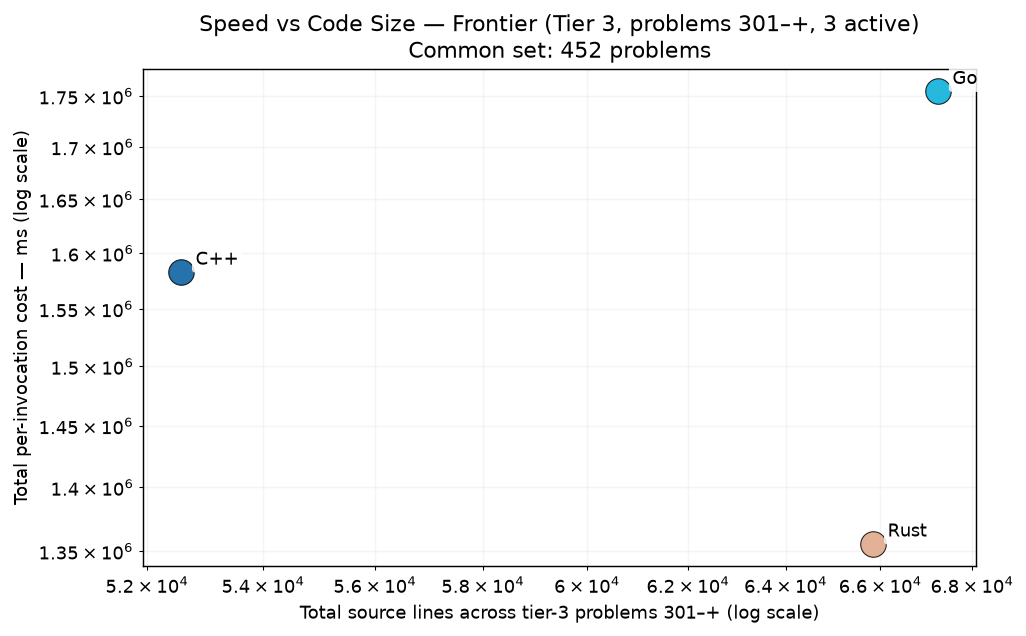
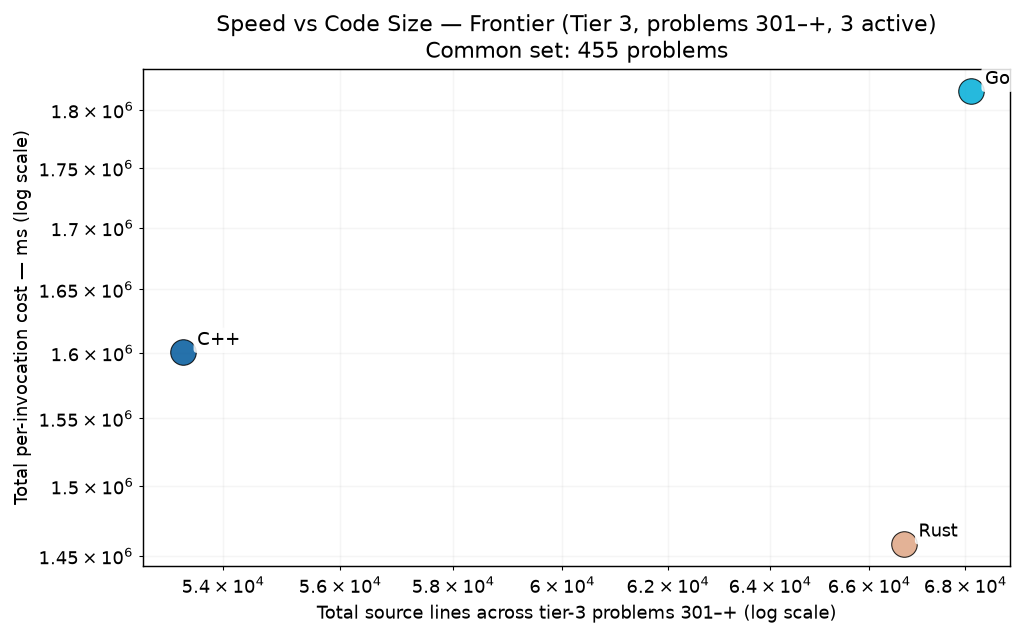
bench: p0433 un-parked + p0583, p0598 frontier trio solves

diff --git a/RESULTS.md b/RESULTS.md
@@ -1,6 +1,6 @@
 # Project Euler — Cross-Language Benchmarks
 
-> **Scope: 4521 in-scope cells across 1007 problems × tiered languages — 3770 measured (83.4% coverage).**
+> **Scope: 4521 in-scope cells across 1007 problems × tiered languages — 3779 measured (83.6% coverage).**
 > The cross-language ranking below is computed over the **200-problem common set** (problems in 1-200 where every language has a passing measurement) — the apples-to-apples Foundation comparison surface.  Per-tier rankings and coverage detail appear further below.
 > Growing carefully — each new problem and language is audited for state-leak
 > safety, verified for answer correctness, and added only when it cleanly fits the
@@ -70,15 +70,15 @@ Same scatter as the Foundation chart, restricted to the tier-2 active languages 
 
 The frontier verification trio — C++, Go, Rust — on problems above 300. 3-way cross-language agreement is the verification protocol (strictly stronger than 2-way; see JOURNEY.md "Tier Reframing" episode for the p254 lesson that motivated it). Python and Zig are explicitly out of this tier — python's wall cost makes it impractical at level 5+, and zig's role caps at Tier 2.
 
-### Per-Invocation Cost (Common Set, 452 of ≤707 problems in scope)
+### Per-Invocation Cost (Common Set, 455 of ≤707 problems in scope)
 
 ![Per-Invocation Cost — Tier 3](charts/per_iter_total_tier3.png)
 
-| Rank | Language | Geomean (452-problem common set) | Total (sum) | Lines of code | vs Fastest |
+| Rank | Language | Geomean (455-problem common set) | Total (sum) | Lines of code | vs Fastest |
 |------|----------|--------------------:|------------:|--------------:|-----------:|
-| 1 | **Rust** | 61.40 ms | 1355.66 s | 65,849 | 1.00× |
-| 2 | **C++** | 65.86 ms | 1582.95 s | 52,581 | 1.07× |
-| 3 | **Go** | 84.60 ms | 1754.76 s | 67,251 | 1.38× |
+| 1 | **Rust** | 63.39 ms | 1458.56 s | 66,717 | 1.00× |
+| 2 | **C++** | 67.67 ms | 1600.49 s | 53,326 | 1.07× |
+| 3 | **Go** | 86.80 ms | 1816.35 s | 68,110 | 1.37× |
 
 ### Speed vs Code Size
 

diff --git a/per_problem/per_problem_0401-0500.md b/per_problem/per_problem_0401-0500.md
@@ -40,7 +40,7 @@ in tier-1 display order (native → managed → interpreted).
 | **p0430** | 301.19 ms | 314.17 ms | 636.79 ms |
 | **p0431** | 306.13 ms | 350.87 ms | 670.09 ms |
 | **p0432** | 542.31 ms | 528.02 ms | 792.28 ms |
-| **p0433** | — | — | ✗ fail |
+| **p0433** | 950.20 ms | 1.04 s | 1.11 s |
 | **p0434** | 93.19 ms | 161.72 ms | 108.59 ms |
 | **p0435** | 198.1 µs | 240.2 µs | 1.42 ms |
 | **p0436** | — | — | 1.1 µs~ |
@@ -108,8 +108,6 @@ in tier-1 display order (native → managed → interpreted).
 | **p0498** | 18.03 ms | 9.84 ms | 8.95 ms |
 | **p0499** | — | — | — |
 | **p0500** | 62.04 ms | 30.84 ms | 85.26 ms |
-
-> ✗ — *process-contract failure* (METHODOLOGY.md §2): the row is recorded as a failure with its reason class (untimed-work / parallel-execution) — there is no path by which a contract-breaking measurement appears as a fast time.
 
 > † — *no corroboration*: no two samples agreed within 5% even at the cell's full sample count. Diagnostic only — the reported minimum still stands; it flags a disturbed measurement environment worth re-benching (METHODOLOGY.md §3).
 

diff --git a/per_problem/per_problem_0501-0600.md b/per_problem/per_problem_0501-0600.md
@@ -90,7 +90,7 @@ in tier-1 display order (native → managed → interpreted).
 | **p0580** | — | — | — |
 | **p0581** | 25.33 ms | 15.63 ms | 201.99 ms |
 | **p0582** | — | — | — |
-| **p0583** | — | — | — |
+| **p0583** | 9.51 s | 4.84 s | 59.42 s |
 | **p0584** | — | — | — |
 | **p0585** | — | — | — |
 | **p0586** | — | — | — |
@@ -105,7 +105,7 @@ in tier-1 display order (native → managed → interpreted).
 | **p0595** | 775.4 µs | 803.3 µs | 54.45 ms |
 | **p0596** | — | — | — |
 | **p0597** | — | — | — |
-| **p0598** | — | — | — |
+| **p0598** | 7.08 s | 97.01 s | 1.06 s |
 | **p0599** | — | — | — |
 | **p0600** | 231.98 ms | 1.39 s | 967.40 ms |
 
